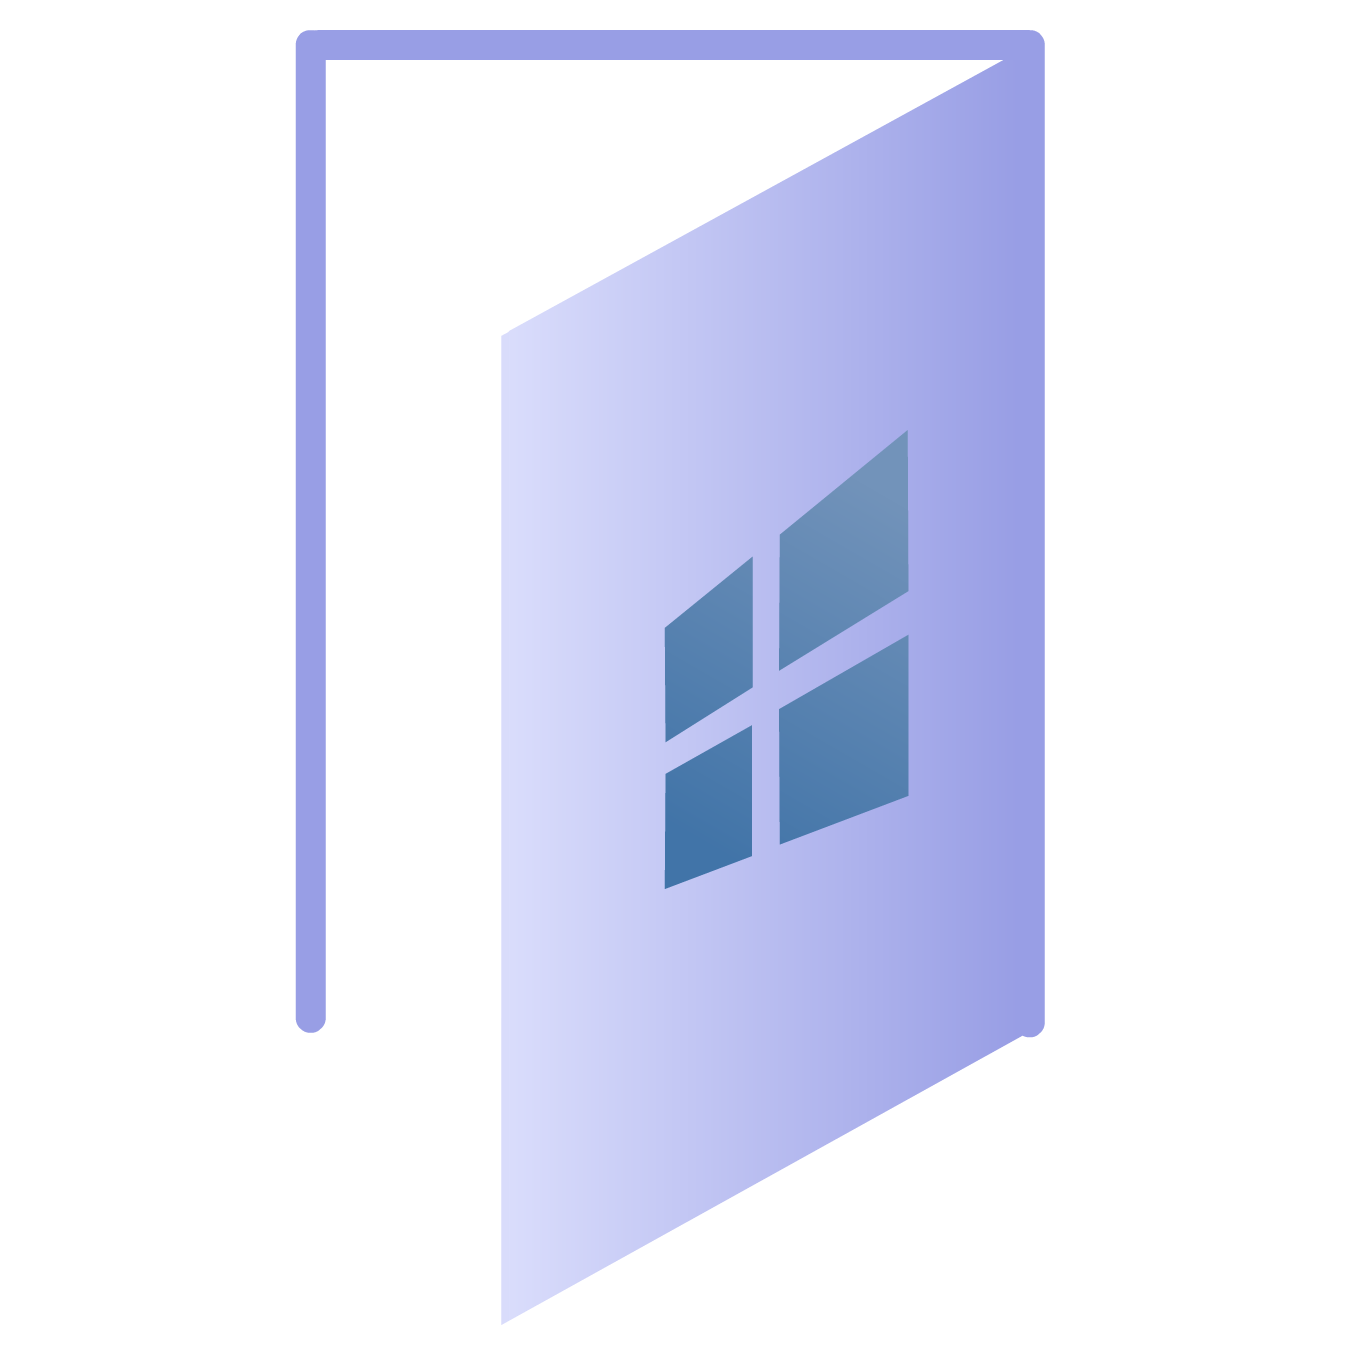
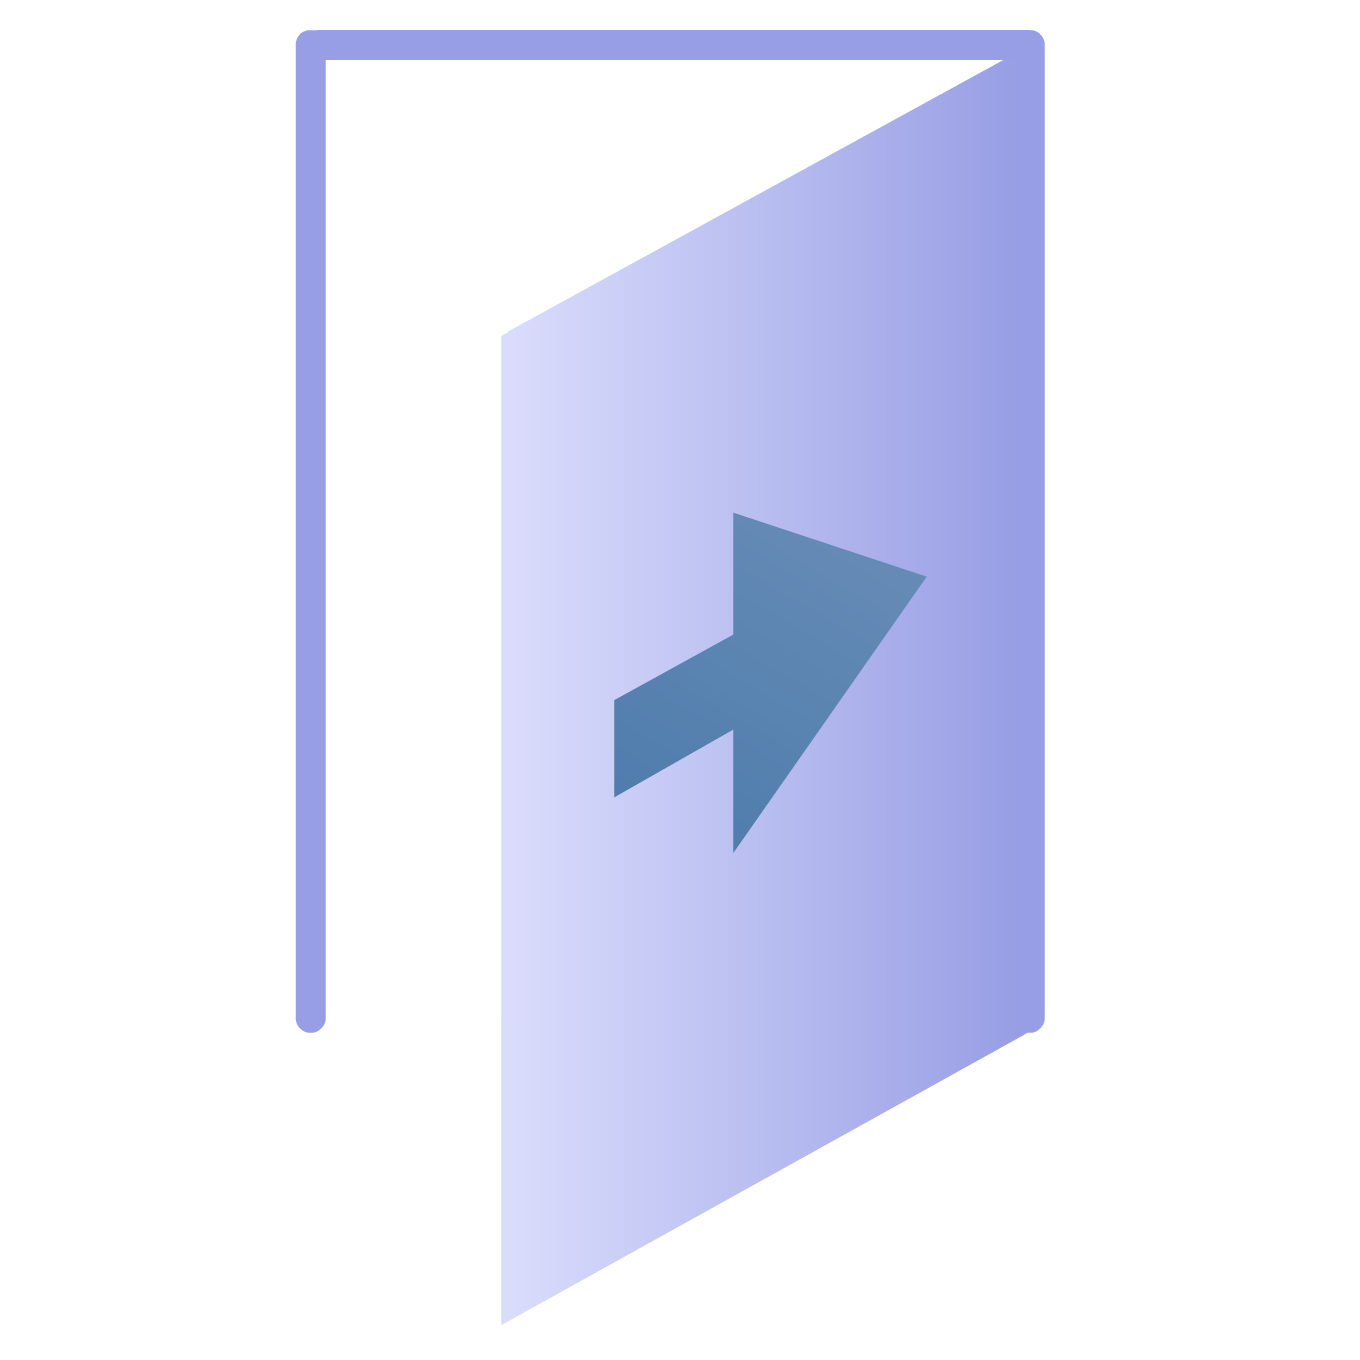
Crude performance improvements, cosmetic changes and more

Changed region(s): [[0.4324, 0.3088, 0.6794, 0.6485]]

diff --git a/source/AscentViewer-files/ascv_main.py b/source/AscentViewer-files/ascv_main.py
@@ -108,9 +108,17 @@ class MainUi(QtWidgets.QMainWindow):
         self.setWindowTitle(f"AscentViewer")
         self.resize(config["windowProperties"]["width"], config["windowProperties"]["height"])
         self.move(config["windowProperties"]["x"], config["windowProperties"]["y"])
-        self.setWindowIcon(QtGui.QIcon("data/assets/img/icon3.png"))
+        self.setWindowIcon(QtGui.QIcon("data/assets/img/icon3_small.png"))
 
         self.statusBar().setStyleSheet("background: #777CC1;")
+
+        # from https://www.geeksforgeeks.org/pyqt5-qlabel-setting-blur-radius-to-the-blur-effect/
+        self.blur_effect = QtWidgets.QGraphicsBlurEffect()
+        self.blur_effect.setBlurRadius(25)
+        # from https://doc.qt.io/qt-5/qgraphicsblureffect.html#blurHints-prop
+        self.blur_effect.setBlurHints(QtWidgets.QGraphicsBlurEffect.QualityHint)
+        self.blur_effect.setEnabled(False)
+        self.setGraphicsEffect(self.blur_effect)
 
         self.mainWidget = QtWidgets.QWidget(self)
         self.setCentralWidget(self.mainWidget)
@@ -119,32 +127,37 @@ class MainUi(QtWidgets.QMainWindow):
         vBox.setContentsMargins(0, 0, 0, 0)
 
         self.label = QtWidgets.QLabel()
+        # from https://stackoverflow.com/a/44044110/14558305
         self.label.setText(localization["mainUIElements"]["openImgFileText"])
-        self.label.setStyleSheet("color: white; background: #2E3440;")
+        self.label.setStyleSheet("""color: white; 
+                                    background: qradialgradient(cx:0.5, cy:0.5, radius: 2.5, fx:0.5, fy:0.5, stop:0 #2E3440, stop:1 black);""")
         self.label.setMinimumSize(16, 16)
         self.label.setAlignment(QtCore.Qt.AlignCenter)
         mainLabelFont = QtGui.QFont("Selawik", 32)
         mainLabelFont.setBold(True)
         self.label.setFont(mainLabelFont)
 
-        # https://stackoverflow.com/a/34802367/14558305
-        self.label.resizeEvent = (lambda old_method: (lambda event: (self.updateFunction(), old_method(event))[-1]))(self.label.resizeEvent)
-
         self.bottom = QtWidgets.QFrame()
         self.bottom.setMinimumHeight(90)
         self.bottom.setMaximumHeight(200)
         self.bottom.setContentsMargins(0, 0, 0, 0)
-        self.bottom.setStyleSheet("background: #525685;")
+        # from https://stackoverflow.com/q/45840527/14558305 (yes, the question)
+        self.bottom.setStyleSheet("background: qlineargradient(x1:0, y1:0, x2:1, y2:0, stop: 0 #525685, stop: 1 #3c3f61)")
 
         btHBox = QtWidgets.QHBoxLayout(self.bottom)
 
         self.detailsFileIcon = QtWidgets.QLabel()
-        icon_ = QtGui.QPixmap("data/assets/img/icon3.png")
-        icon = icon_.scaled(60, 60, QtCore.Qt.KeepAspectRatio, QtCore.Qt.SmoothTransformation)
+        self.detailsFileIcon.setMinimumSize(60, 60)
+        self.detailsFileIcon.setMaximumSize(60, 60)
+        self.detailsFileIcon.setScaledContents(True)
+        # from https://stackoverflow.com/a/51401997/14558305
+        self.detailsFileIcon.setAttribute(QtCore.Qt.WA_NoSystemBackground);
+        icon = QtGui.QPixmap("data/assets/img/file.png")
         self.detailsFileIcon.setPixmap(QtGui.QPixmap(icon))
 
         self.fileLabel = QtWidgets.QLabel()
         self.fileLabel.setStyleSheet("color: white;")
+        self.fileLabel.setAttribute(QtCore.Qt.WA_NoSystemBackground);
         fileLabelFont = QtGui.QFont("Selawik", 14)
         fileLabelFont.setBold(True)
         self.fileLabel.setFont(fileLabelFont)
@@ -152,11 +165,14 @@ class MainUi(QtWidgets.QMainWindow):
 
         self.dateModifiedLabel = QtWidgets.QLabel()
         self.dateModifiedLabel.setStyleSheet("color: white;")
+        self.dateModifiedLabel.setAttribute(QtCore.Qt.WA_NoSystemBackground);
 
         self.dimensionsLabel = QtWidgets.QLabel()
         self.dimensionsLabel.setStyleSheet("color: white;")
+        self.dimensionsLabel.setAttribute(QtCore.Qt.WA_NoSystemBackground);
 
         btFileInfoVBox1Frame = QtWidgets.QFrame()
+        btFileInfoVBox1Frame.setAttribute(QtCore.Qt.WA_NoSystemBackground);
         btFileInfoVBox1 = QtWidgets.QVBoxLayout(btFileInfoVBox1Frame)
         btFileInfoVBox1.setContentsMargins(0, 0, 0, 0)
         btFileInfoVBox1.setAlignment(QtCore.Qt.AlignLeft)
@@ -164,19 +180,21 @@ class MainUi(QtWidgets.QMainWindow):
         btFileInfoVBox1.addWidget(self.dimensionsLabel)
 
         btFileInfoContainerHBoxFrame = QtWidgets.QFrame() # A really long name, I know
+        btFileInfoContainerHBoxFrame.setAttribute(QtCore.Qt.WA_NoSystemBackground);
         btFileInfoContainerHBox = QtWidgets.QHBoxLayout(btFileInfoContainerHBoxFrame)
         btFileInfoContainerHBox.setContentsMargins(0, 0, 0, 0)
         btFileInfoContainerHBox.setAlignment(QtCore.Qt.AlignLeft)
         btFileInfoContainerHBox.addWidget(btFileInfoVBox1Frame)
 
         btMainVBoxFrame = QtWidgets.QFrame()
+        btMainVBoxFrame.setAttribute(QtCore.Qt.WA_NoSystemBackground);
         btMainVBox = QtWidgets.QVBoxLayout(btMainVBoxFrame)
         btMainVBox.setAlignment(QtCore.Qt.AlignTop)
         btMainVBox.setContentsMargins(0, 0, 0, 0)
         btMainVBox.addWidget(self.fileLabel)
         btMainVBox.addWidget(btFileInfoContainerHBoxFrame)
 
-        btHBox.setAlignment(QtCore.Qt.AlignLeft) # This probably won't work in PyQt6
+        btHBox.setAlignment(QtCore.Qt.AlignLeft) # This probably won't work with PyQt6
         btHBox.addWidget(self.detailsFileIcon)
         btHBox.addWidget(btMainVBoxFrame)
 
@@ -209,7 +227,7 @@ class MainUi(QtWidgets.QMainWindow):
         openDirButton.setStatusTip("Open a directory file")
         openDirButton.triggered.connect(self.openDir)
 
-        exitButton = QtWidgets.QAction(QtGui.QIcon("data/assets/img/door.png"), localization["mainUIElements"]["menuBar"]["file"]["exitText"], self)
+        exitButton = QtWidgets.QAction(QtGui.QIcon("data/assets/img/door_small.png"), localization["mainUIElements"]["menuBar"]["file"]["exitText"], self)
         exitButton.setShortcut("CTRL+Q")
         exitButton.setStatusTip("Exit application")
         exitButton.triggered.connect(self.close)
@@ -242,12 +260,12 @@ class MainUi(QtWidgets.QMainWindow):
         resetCfg.setStatusTip("Reset the configuration file.")
         resetCfg.triggered.connect(self.resetConfigDialog)
 
-        helpButton = QtWidgets.QAction(QtGui.QIcon("data/assets/img/icon3.png"), localization["mainUIElements"]["menuBar"]["help"]["help"], self)
+        helpButton = QtWidgets.QAction(QtGui.QIcon("data/assets/img/icon3_small.png"), localization["mainUIElements"]["menuBar"]["help"]["help"], self)
         helpButton.setShortcut("F1")
         helpButton.setStatusTip("Open the help window.")
         helpButton.triggered.connect(self.openHelpWin)
 
-        aboutButton = QtWidgets.QAction(QtGui.QIcon("data/assets/img/icon3.png"), localization["mainUIElements"]["menuBar"]["help"]["about"], self)
+        aboutButton = QtWidgets.QAction(QtGui.QIcon("data/assets/img/icon3_small.png"), localization["mainUIElements"]["menuBar"]["help"]["about"], self)
         aboutButton.setShortcut("Shift+F1")
         aboutButton.setStatusTip("Open the about window.")
         aboutButton.triggered.connect(self.openAboutWin)
@@ -273,41 +291,75 @@ class MainUi(QtWidgets.QMainWindow):
         self.label.setContextMenuPolicy(QtCore.Qt.ActionsContextMenu)
         self.label.addAction(openImgButton)
 
+        # from https://pythonpyqt.com/qtimer/
+        self.timer = QtCore.QTimer()
+        self.timer.timeout.connect(self.updateTimerFunc)
+
+        # from https://stackoverflow.com/a/34802367/14558305
+        self.label.resizeEvent = (lambda old_method: (lambda event: (self.updateFunction(1), old_method(event))[-1]))(self.label.resizeEvent)
+
         self.statusBar().showMessage("{} {}".format(localization["mainUIElements"]["statusBar"]["greetMessageBeginning"], ver))
         ascvLogger.info("GUI has been initialized.")
 
     # ISSUE: for some images, this REALLY makes the program lag
     # the foundation of the code comes from https://stackoverflow.com/a/43570124/14558305
-    def updateFunction(self):
+    def updateFunction(self, i):
         '''
         A function that, well, updates. Updates widgets, to be more exact.
         '''
 
-        mwWidth = self.label.frameGeometry().width()
-        mwHeight = self.label.frameGeometry().height()
+        self.mwWidth = self.label.frameGeometry().width()
+        self.mwHeight = self.label.frameGeometry().height()
 
         if self.imgFilePath != "":
-            # should probably not use Pillow for this, might change this later
-            # from https://stackoverflow.com/questions/6444548/how-do-i-get-the-picture-size-with-pil
-            im = Image.open(self.imgFilePath)
+            if i == 0:
+                # i == 0: set up things, update image to high quality image
 
-            pixmap_ = QtGui.QPixmap(self.imgFilePath)
-            pixmap = pixmap_.scaled(mwWidth, mwHeight, QtCore.Qt.KeepAspectRatio, QtCore.Qt.SmoothTransformation)
-            self.label.setPixmap(pixmap)
+                # should probably not use Pillow for this, might change this later
+                # from https://stackoverflow.com/questions/6444548/how-do-i-get-the-picture-size-with-pil
 
-            dateModified = datetime.datetime.fromtimestamp(os.path.getmtime(self.imgFilePath)).strftime(date_format)
-            imWidth, imHeight = im.size
-            dimensions = f"{imWidth}x{imHeight}"
+                # NOTE: make it so the thumbnails don't get recreated every time
+                im = Image.open(self.imgFilePath)
+                self.imWidth, imHeight = im.size
+                imName = os.path.basename(self.imgFilePath)
 
-            self.fileLabel.setText(os.path.basename(self.imgFilePath))
-            self.dateModifiedLabel.setText(f"<b>Date modified:</b> {dateModified}")
-            self.dimensionsLabel.setText(f"<b>Dimensions:</b> {dimensions}")
+                imThumb = im
+                imThumb.thumbnail((500, 500))
+                #self.imTOut = f"data/user/temp/thumbnails/tn_{os.path.splitext(imName)[0]}.png"
+                self.imTOut = "data/user/temp/thumbnails/tn_current-thumb.png"
+                imThumb.save(self.imTOut, "PNG")
 
-            icon_ = QtGui.QPixmap("data/assets/img/file.png")
-            icon = icon_.scaled(60, 60, QtCore.Qt.KeepAspectRatio, QtCore.Qt.SmoothTransformation)
-            self.detailsFileIcon.setPixmap(QtGui.QPixmap(icon))
+                pixmap_ = QtGui.QPixmap(self.imTOut)
+                pixmap = pixmap_.scaled(self.mwWidth, self.mwHeight, QtCore.Qt.KeepAspectRatio, QtCore.Qt.SmoothTransformation)
+                self.label.setPixmap(pixmap)
+                dateModified = datetime.datetime.fromtimestamp(os.path.getmtime(self.imgFilePath)).strftime(date_format)
+                dimensions = f"{self.imWidth}x{imHeight}"
 
-            self.label.resize(mwWidth, mwHeight)
+                self.fileLabel.setText(imName)
+                self.dateModifiedLabel.setText(f"<b>Date modified:</b> {dateModified}")
+                self.dimensionsLabel.setText(f"<b>Dimensions:</b> {dimensions}")
+
+                pixmap_ = QtGui.QPixmap(self.imgFilePath)
+                pixmap = pixmap_.scaled(self.mwWidth, self.mwHeight, QtCore.Qt.KeepAspectRatio, QtCore.Qt.SmoothTransformation)
+                self.label.setPixmap(pixmap)
+            elif i == 1:
+                # i == 1: low quality resize
+
+                # WARNING: this makes the timer start again after it times out while resizing an image. This calls the updateTimerFunc function again,
+                # which then swaps out the actual image with the thumbnail every time. This goes unnoticed, however, but STILL, I should *probably*
+                # fix that somehow.
+                if self.timer.isActive() == False:
+                    self.timer.start(250)
+
+                pixmap_ = QtGui.QPixmap(self.imTOut)
+                pixmap = pixmap_.scaled(self.mwWidth, self.mwHeight, QtCore.Qt.KeepAspectRatio)
+                self.label.setPixmap(pixmap)
+
+    def updateTimerFunc(self):
+        pixmap_ = QtGui.QPixmap(self.imgFilePath)
+        pixmap = pixmap_.scaled(self.mwWidth, self.mwHeight, QtCore.Qt.KeepAspectRatio, QtCore.Qt.SmoothTransformation)
+        self.label.setPixmap(pixmap)
+        self.timer.stop()
 
     # I should clean up these two functions below soon
     def openImage(self):
@@ -390,7 +442,7 @@ class MainUi(QtWidgets.QMainWindow):
 
             self.imgFilePath = self.dirImageList[self.imageNumber]
 
-            self.updateFunction()
+            self.updateFunction(0)
             self.navButtonBack.setEnabled(True)
             self.navButtonForw.setEnabled(True)
         else:
@@ -405,7 +457,7 @@ class MainUi(QtWidgets.QMainWindow):
             self.imageNumber = len(self.dirImageList) - 1
 
         self.imgFilePath = self.dirImageList[self.imageNumber]
-        self.updateFunction()
+        self.updateFunction(0)
 
     def nextImage(self):
         ascvLogger.debug(f"Showing next image, imageNumber = {self.imageNumber}")
@@ -415,7 +467,7 @@ class MainUi(QtWidgets.QMainWindow):
             self.imageNumber = 0
 
         self.imgFilePath = self.dirImageList[self.imageNumber]
-        self.updateFunction()
+        self.updateFunction(0)
 
     def dumpJson(self):
         with open("data/user/config.json", "w", encoding="utf-8", newline="\n") as cf:
@@ -434,8 +486,10 @@ class MainUi(QtWidgets.QMainWindow):
 
     def closeEvent(self, event):
         if config["prompts"]["enableExitPrompt"]:
+            self.blur_effect.setEnabled(True)
+
             reply = QtWidgets.QMessageBox(self)
-            reply.setWindowIcon(QtGui.QIcon("data/assets/img/icon3.png"))
+            reply.setWindowIcon(QtGui.QIcon("data/assets/img/icon3_small.png"))
             reply.setWindowTitle(localization["mainUIElements"]["exitDialog"]["title"])
             reply.setText("<b>{}</b>".format(localization["mainUIElements"]["exitDialog"]["mainText"]))
             reply.setInformativeText("<i>{}</i>".format(localization["mainUIElements"]["exitDialog"]["informativeText"]))
@@ -448,8 +502,7 @@ class MainUi(QtWidgets.QMainWindow):
             buttonN.setText(localization["mainUIElements"]["commonQMessageBoxStrings"]["no"])
 
             checkbox = QtWidgets.QCheckBox(localization["mainUIElements"]["commonQMessageBoxStrings"]["dontShowAgain"])
-            icon_ = QtGui.QPixmap("data/assets/img/door.png")
-            icon = icon_.scaled(48, 48, QtCore.Qt.KeepAspectRatio, QtCore.Qt.SmoothTransformation)
+            icon = QtGui.QPixmap("data/assets/img/door_small.png")
             reply.setIconPixmap(QtGui.QPixmap(icon))
             reply.setCheckBox(checkbox)
             reply.setModal(True)
@@ -468,6 +521,7 @@ class MainUi(QtWidgets.QMainWindow):
                 event.accept()
             else:
                 ascvLogger.info("Not exiting.")
+                self.blur_effect.setEnabled(False)
                 event.ignore()
 
         else:
@@ -481,8 +535,10 @@ class MainUi(QtWidgets.QMainWindow):
         (copy config.json from default_config to the user folder). If they respond with "Yes", the function
         resets the configuration to its defaults.
         '''
+        self.blur_effect.setEnabled(True)
+
         reply = QtWidgets.QMessageBox(self)
-        reply.setWindowIcon(QtGui.QIcon("data/assets/img/icon3.png"))
+        reply.setWindowIcon(QtGui.QIcon("data/assets/img/icon3_small.png"))
         reply.setWindowTitle(localization["mainUIElements"]["resetConfigDialog"]["title"])
         reply.setText("<b>{}</b>".format(localization["mainUIElements"]["resetConfigDialog"]["mainText"]))
         reply.setInformativeText("<i>{}</i>".format(localization["mainUIElements"]["resetConfigDialog"]["informativeText"]))
@@ -495,8 +551,7 @@ class MainUi(QtWidgets.QMainWindow):
         buttonN.setText(localization["mainUIElements"]["commonQMessageBoxStrings"]["no"])
 
         checkbox = QtWidgets.QCheckBox(localization["mainUIElements"]["resetConfigDialog"]["checkboxText"])
-        icon_ = QtGui.QPixmap("data/assets/img/icon3.png")
-        icon = icon_.scaled(48, 48, QtCore.Qt.KeepAspectRatio, QtCore.Qt.SmoothTransformation)
+        icon = QtGui.QPixmap("data/assets/img/icon3_small.png")
         reply.setIconPixmap(QtGui.QPixmap(icon))
         reply.setCheckBox(checkbox)
         reply.setModal(True)
@@ -511,6 +566,8 @@ class MainUi(QtWidgets.QMainWindow):
         if x == QtWidgets.QMessageBox.Yes:
             shutil.copyfile("data/assets/default_config/config.json", "data/user/config.json")
             self.saveConfigOnExit = False
+        else:
+            self.blur_effect.setEnabled(False)
 
     # from https://stackoverflow.com/a/33741755/14558305
     def except_hook(self, cls, exception, traceback):
@@ -532,10 +589,11 @@ class MainUi(QtWidgets.QMainWindow):
         logViewer.setGeometry(geo)
 
         logViewer.setWindowTitle("Log Viewer")
-        logViewer.setWindowIcon(QtGui.QIcon("data/assets/img/icon3.png"))
+        logViewer.setWindowIcon(QtGui.QIcon("data/assets/img/icon3_small.png"))
         logViewer.setAttribute(QtCore.Qt.WA_QuitOnClose, True) # https://stackoverflow.com/questions/16468584/qwidget-doesnt-close-when-main-window-is-closed
 
         logTextEdit = QtWidgets.QPlainTextEdit(logViewer)
+        logTextEdit.setFont(QtGui.QFont("Cascadia Code"))
         logViewer.setCentralWidget(logTextEdit)
         logTextEdit.appendPlainText("Coming soon.")
 
@@ -549,13 +607,10 @@ class MainUi(QtWidgets.QMainWindow):
         helpWin.setAttribute(QtCore.Qt.WA_QuitOnClose, True)
         helpWin.setModal(True)
         helpWin.setWindowTitle("Help")
-        helpWin.setWindowIcon(QtGui.QIcon("data/assets/img/icon3.png"))
+        helpWin.setWindowIcon(QtGui.QIcon("data/assets/img/icon3_small.png"))
 
         icon = QtWidgets.QLabel()
-        icon.setPixmap(QtGui.QPixmap("data/assets/img/icon3.png"))
-        icon.setMinimumSize(64, 64)
-        icon.setMaximumSize(64, 64)
-        icon.setScaledContents(True)
+        icon.setPixmap(QtGui.QPixmap("data/assets/img/icon3_small64.png"))
 
         # from the about window
         programName = QtWidgets.QLabel("AscentViewer")
@@ -611,7 +666,7 @@ class MainUi(QtWidgets.QMainWindow):
         about.resize(900, 502)
         about.setObjectName("about")
         about.setModal(True)
-        about.setWindowIcon(QtGui.QIcon("data/assets/img/icon3.png"))
+        about.setWindowIcon(QtGui.QIcon("data/assets/img/icon3_small.png"))
         about.gridLayout = QtWidgets.QGridLayout(about)
         about.gridLayout.setContentsMargins(0, 0, 0, 0)
         about.gridLayout.setObjectName("gridLayout")
@@ -646,6 +701,7 @@ class MainUi(QtWidgets.QMainWindow):
         font.setPointSize(36)
         font.setBold(True)
         font.setWeight(75)
+        #font.setStyleStrategy(QtGui.QFont.NoSubpixelAntialias | QtGui.QFont.PreferAntialias);
         about.programName.setFont(font)
         about.programName.setTextFormat(QtCore.Qt.PlainText)
         about.programName.setScaledContents(False)
@@ -922,7 +978,7 @@ if __name__ == "__main__":
     dark_palette = QtGui.QPalette()
     dark_palette.setColor(QtGui.QPalette.Window, QtGui.QColor(46, 52, 64))
     dark_palette.setColor(QtGui.QPalette.WindowText, QtCore.Qt.white)
-    dark_palette.setColor(QtGui.QPalette.Base, QtGui.QColor(38, 43, 53)) #59, 66, 82; 34, 38, 47
+    dark_palette.setColor(QtGui.QPalette.Base, QtGui.QColor(38, 43, 53)) #59, 66, 82; 34, 38, 47; 38, 43, 53
     dark_palette.setColor(QtGui.QPalette.AlternateBase, QtGui.QColor(46, 52, 64))
     dark_palette.setColor(QtGui.QPalette.ToolTipBase, QtCore.Qt.white)
     dark_palette.setColor(QtGui.QPalette.ToolTipText, QtCore.Qt.white)

diff --git a/source/AscentViewer.py b/source/AscentViewer.py
@@ -49,6 +49,6 @@ pycLocation = "AscentViewer-files/ascv_main.pyc"
 print("Compiling AscentViewer...")
 py_compile.compile(pyLocation, pycLocation) # from https://stackoverflow.com/a/5607315/14558305
 
-print(f"Python is located at {sys.executable}")
+print(f"Python is located at {sys.executable}") # from https://stackoverflow.com/a/2589722/14558305
 print("Starting AscentViewer...\n")
 subprocess.run([sys.executable, pyLocation])
